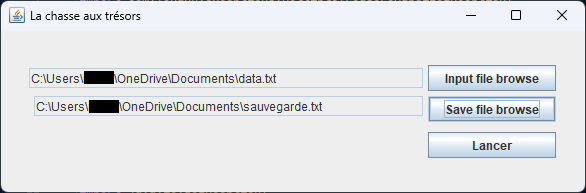
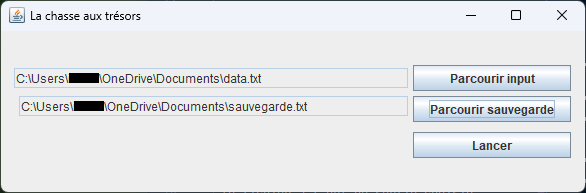
Update README.md

diff --git a/src/main/java/com/yohann/ui/MainWindow.java b/src/main/java/com/yohann/ui/MainWindow.java
@@ -85,7 +85,7 @@ public class MainWindow extends JFrame {
     }
 
     private JButton inputFileBrowseButton() {
-        JButton browseButton = new JButton("Input file browse");
+        JButton browseButton = new JButton("Parcourir input");
 
         browseButton.addActionListener(e -> {
             JFileChooser fileChooser = new JFileChooser();
@@ -107,7 +107,7 @@ public class MainWindow extends JFrame {
     }
 
     private JButton saveFileBrowseButton() {
-        JButton browseButton = new JButton("Save file browse");
+        JButton browseButton = new JButton("Parcourir sauvegarde");
 
         browseButton.addActionListener(e -> {
             JFileChooser fileChooser = new JFileChooser();

diff --git a/README.md b/README.md
@@ -18,7 +18,7 @@ Exercice pour l'entretient technique chez Carbon-IT
 - Choisir le fichier de sortie (2ème ligne)
 - Lancer le programme et aller vérifier le fichier à l'url de sortie choisie
 
-![Image d'exemple](https://github.com/yohann-capel/Carbon-IT/blob/master/src/main/resources/capture.png?raw=true)
+![Image d'exemple](https://github.com/yohann-capel/Carbon-IT-Test/blob/master/src/main/resources/capture.png?raw=true)
 
 ## Organisation
 - Code dans src/main/java/
